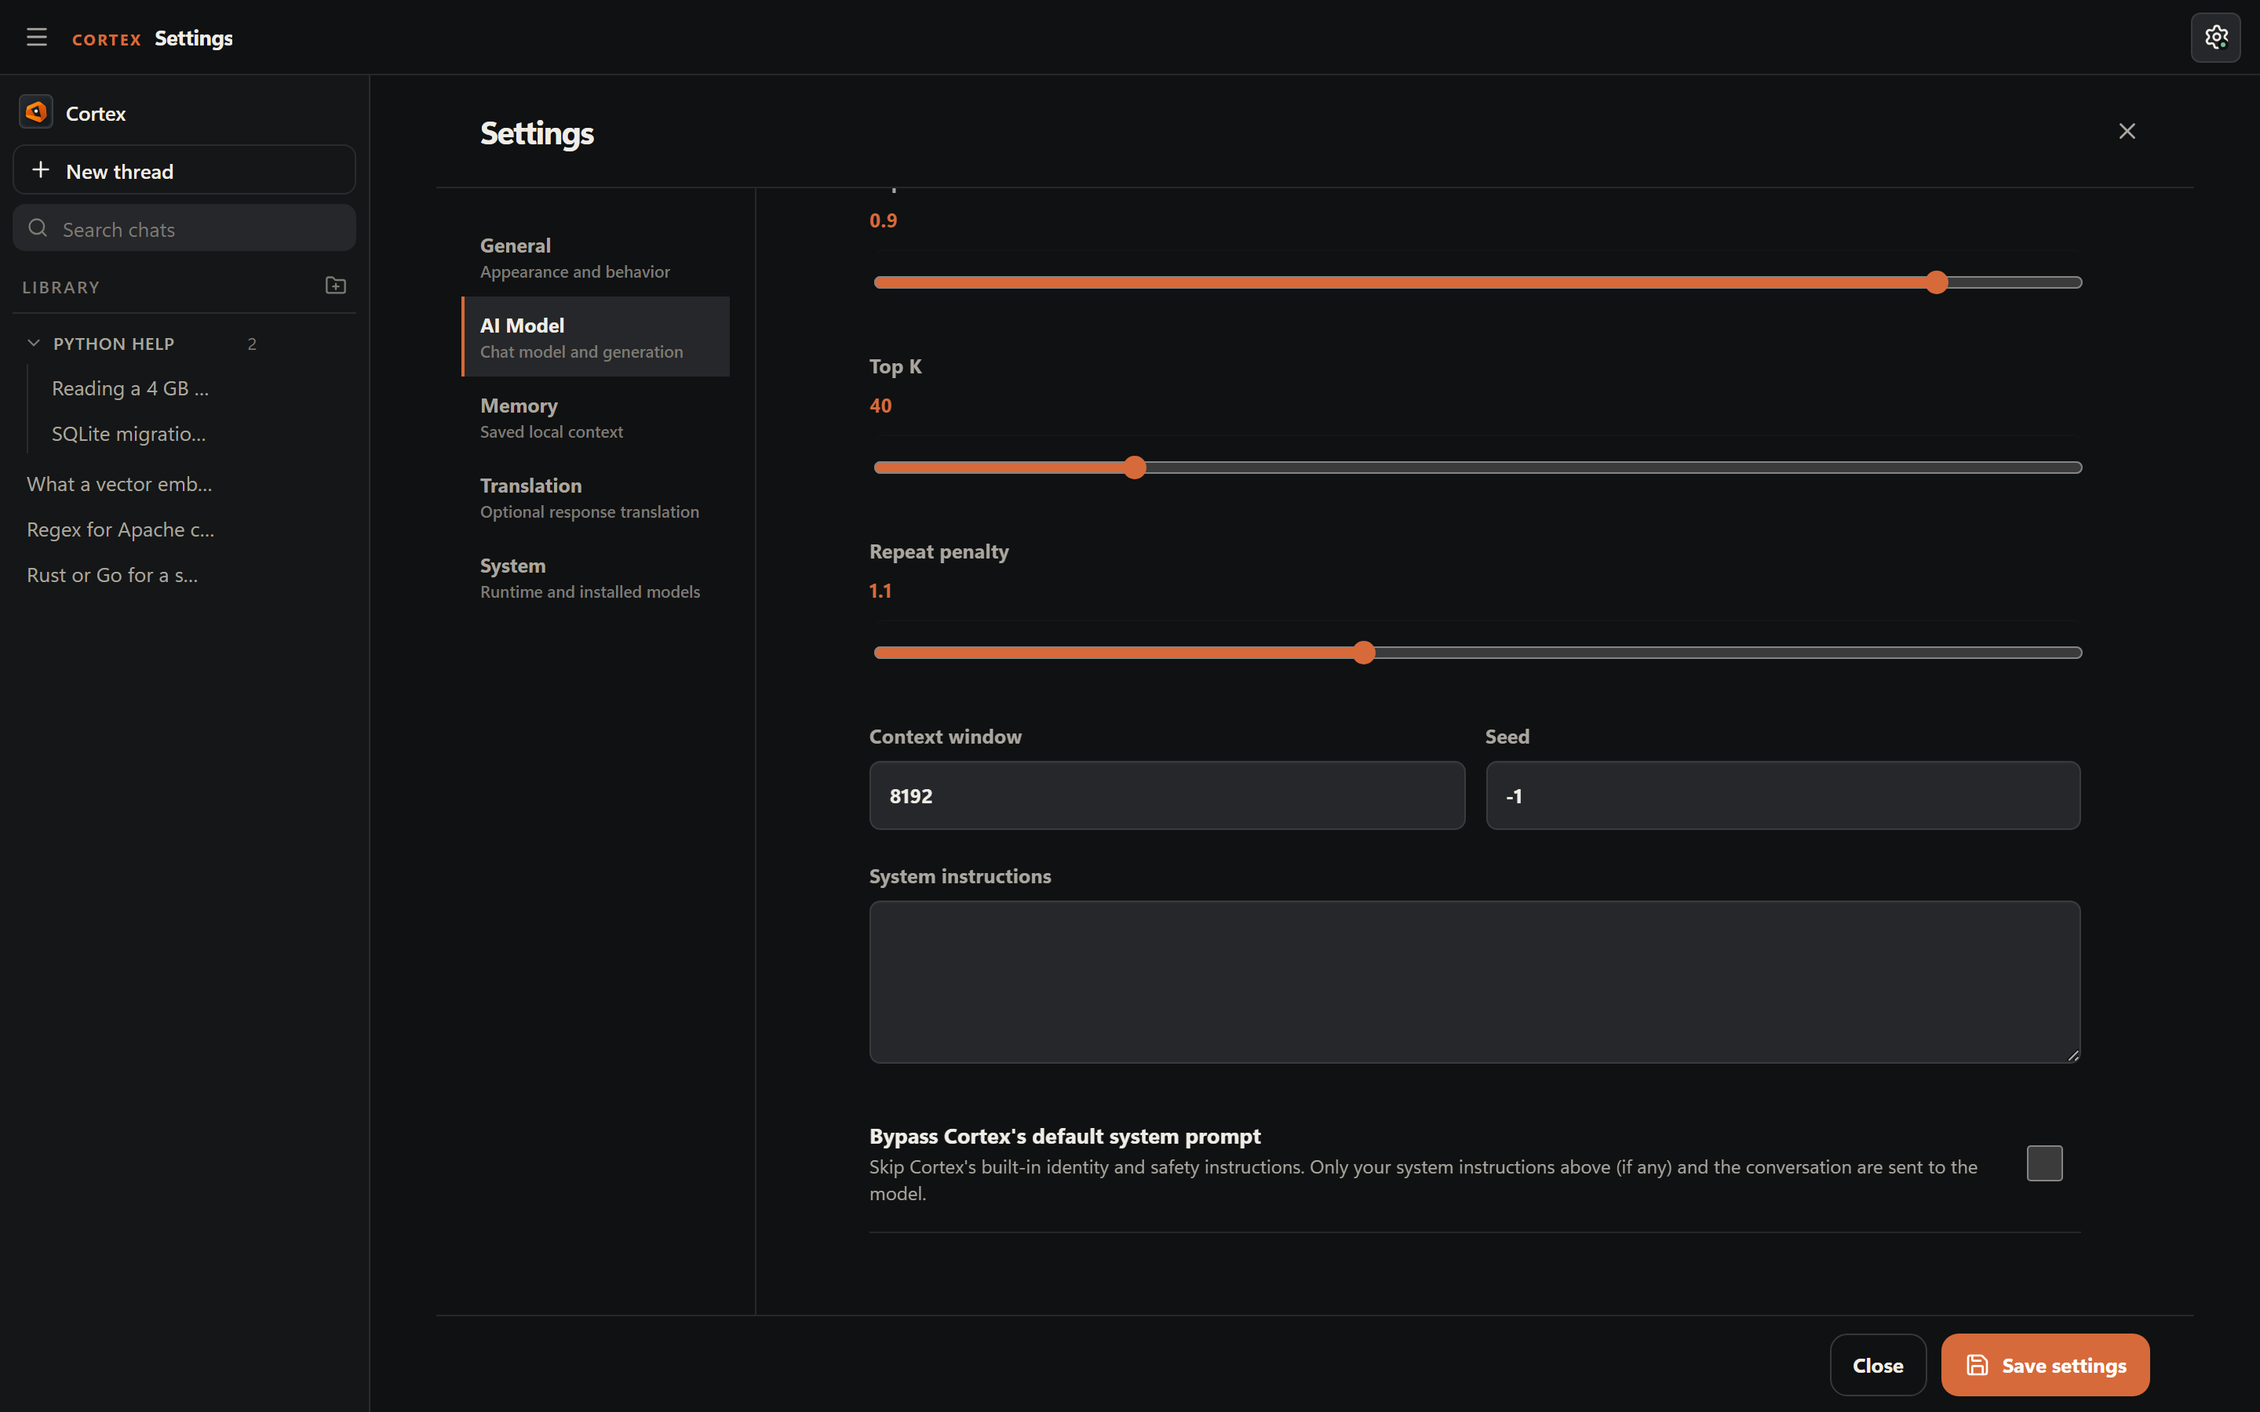
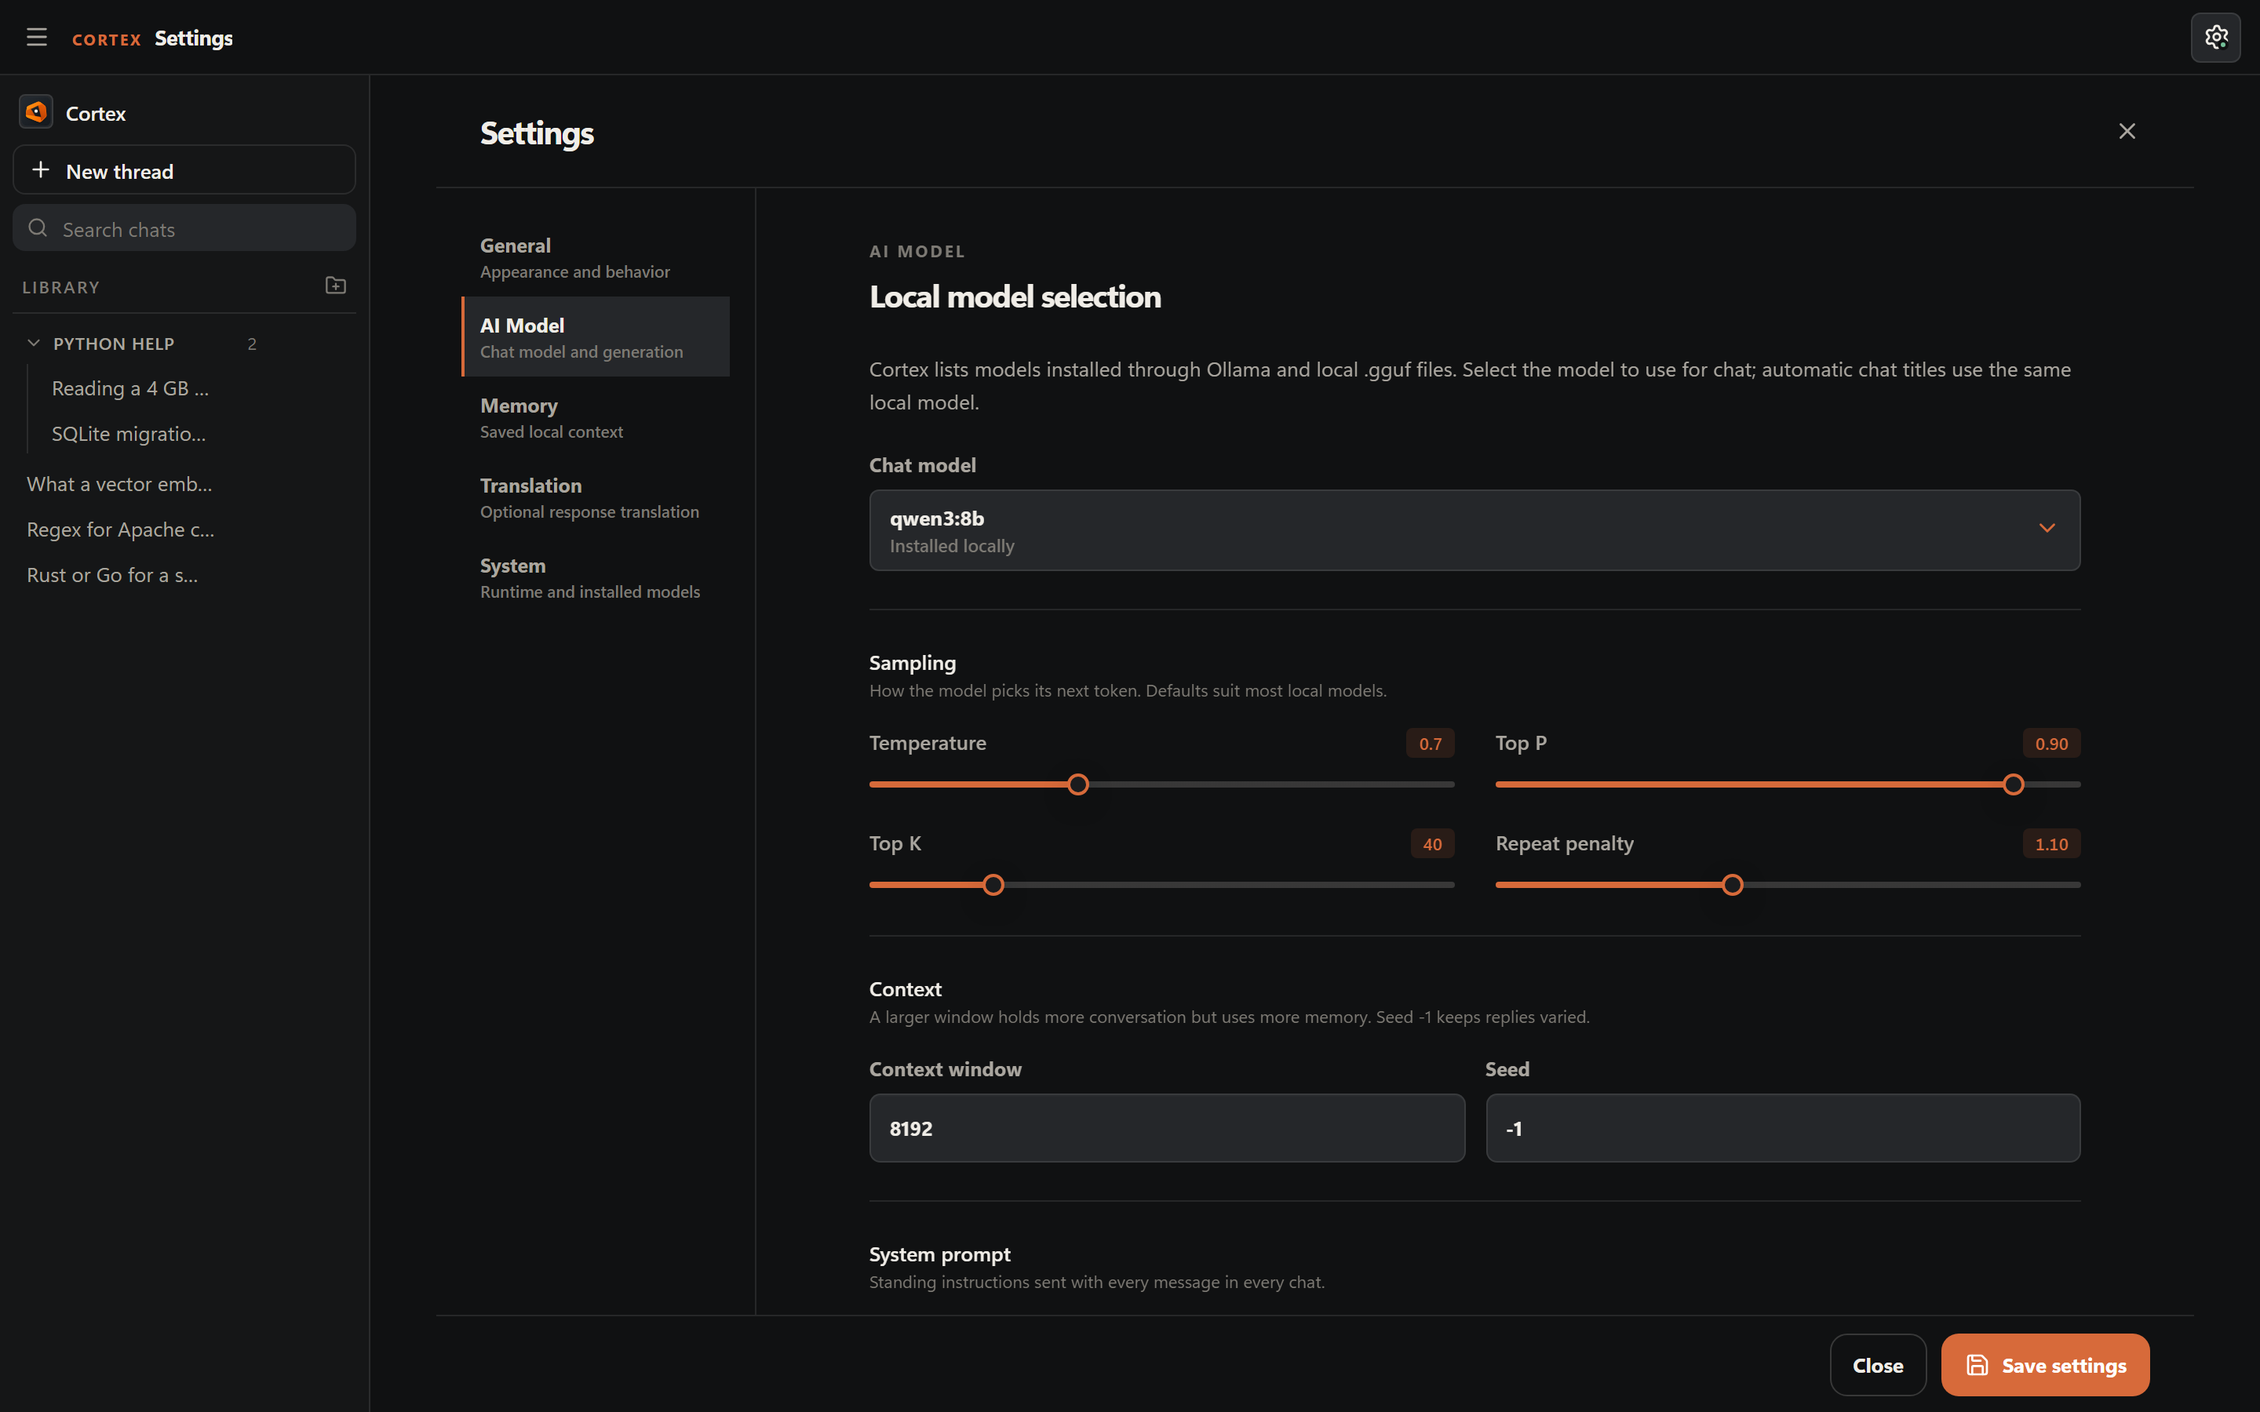
Draw the settings sliders instead of shipping the browser's
The generation controls were `input[type="range"]` with nothing but
`accent-color` on them, so Settings rendered whatever rail the host browser
draws by default -- which in WebView2, the thing Cortex actually ships in, is
the stock grey Chromium control. Each one also spanned the full pane, giving a
0-2 range about a thousand pixels of travel, and the current value floated above
the track via `float: right`.

Adds a RangeField control with a real track and thumb. The filled portion comes
from a `--range-fill` percentage published by the component, because only
Firefox paints that natively (`::-moz-range-progress`) and WebKit has no
equivalent -- doing it in CSS alone would have looked right in one engine and
wrong in the one we ship.

The four sampling controls now sit in two columns rather than one long stack,
the value reads as a chip on the label's baseline instead of a floated span, and
the section is grouped into Sampling / Context / System prompt with a line and a
sentence of explanation each. The whole panel now fits one screen where it
previously needed scrolling.

The toggles were `<input type="checkbox">` at 42x23, which renders as a
stretched checkbox, not a switch. They are painted as switches now and stay
checkboxes underneath, so role, keyboard behaviour, and label association are
unchanged -- the existing tests query them by role and still pass untouched.

Verified in both themes: the light palette was checked separately, since the
[…]

diff --git a/frontend/src/styles/tokens.css b/frontend/src/styles/tokens.css
@@ -663,11 +663,122 @@ a { color: inherit; text-decoration: none; }
 .translation-install-status > strong { margin-left: auto; font-variant-numeric: tabular-nums; }
 .field-value { float: right; color: var(--accent); }
 input[type="range"] { width: 100%; accent-color: var(--accent); }
+
+/* Sliders -------------------------------------------------------------------
+   The default range control is styled per browser and reads as an unfinished
+   form rather than part of this interface, so the track and thumb are drawn
+   here instead. The filled portion comes from --range-fill, published by
+   RangeField, because WebKit has no ::-moz-range-progress equivalent. */
+.range-field { display: grid; min-width: 0; gap: 9px; }
+.range-field-head { display: flex; align-items: baseline; justify-content: space-between; gap: 10px; min-width: 0; }
+.range-field-head label { min-width: 0; overflow: hidden; color: var(--text-muted); font-size: var(--text-sm); font-weight: var(--weight-semi); text-overflow: ellipsis; white-space: nowrap; cursor: pointer; }
+.range-field-value {
+  flex: 0 0 auto;
+  padding: 2px 8px;
+  border-radius: var(--radius-xs);
+  background: var(--accent-soft);
+  color: var(--accent);
+  font-size: var(--text-2xs);
+  font-variant-numeric: tabular-nums;
+  font-weight: var(--weight-semi);
+}
+.range-field-hint { color: var(--text-faint); font-size: var(--text-2xs); line-height: 1.45; }
+
+.range-input {
+  --range-fill: 50%;
+  width: 100%;
+  height: 16px;
+  margin: 0;
+  padding: 0;
+  appearance: none;
+  -webkit-appearance: none;
+  background: transparent;
+  cursor: pointer;
+}
+.range-input::-webkit-slider-runnable-track {
+  height: 4px;
+  border-radius: 999px;
+  background: linear-gradient(
+    to right,
+    var(--accent) 0 var(--range-fill),
+    var(--line-strong) var(--range-fill) 100%
+  );
+}
+.range-input::-webkit-slider-thumb {
+  width: 14px;
+  height: 14px;
+  margin-top: -5px;
+  appearance: none;
+  -webkit-appearance: none;
+  border: 2px solid var(--accent);
+  border-radius: 50%;
+  background: var(--surface);
+  box-shadow: var(--shadow-sm);
+  transition: transform 130ms ease, box-shadow 130ms ease;
+}
+.range-input::-moz-range-track { height: 4px; border-radius: 999px; background: var(--line-strong); }
+.range-input::-moz-range-progress { height: 4px; border-radius: 999px; background: var(--accent); }
+.range-input::-moz-range-thumb {
+  width: 14px;
+  height: 14px;
+  border: 2px solid var(--accent);
+  border-radius: 50%;
+  background: var(--surface);
+  box-shadow: var(--shadow-sm);
+  transition: transform 130ms ease, box-shadow 130ms ease;
+}
+.range-input:hover::-webkit-slider-thumb { transform: scale(1.14); }
+.range-input:hover::-moz-range-thumb { transform: scale(1.14); }
+.range-input:focus-visible { outline: 0; }
+.range-input:focus-visible::-webkit-slider-thumb { box-shadow: 0 0 0 4px var(--accent-soft); }
+.range-input:focus-visible::-moz-range-thumb { box-shadow: 0 0 0 4px var(--accent-soft); }
+
+/* Two columns keeps a 0-2 range from being stretched across the whole pane,
+   where a pixel of travel stops meaning anything. */
+.settings-range-grid { display: grid; grid-template-columns: repeat(2, minmax(0, 1fr)); gap: 20px 26px; }
+.settings-subhead { display: grid; gap: 2px; margin: 4px 0 -4px; }
+.settings-subhead strong { color: var(--text); font-size: var(--text-sm); font-weight: var(--weight-semi); }
+.settings-subhead small { color: var(--text-faint); font-size: var(--text-2xs); line-height: 1.45; }
+.settings-divider { height: 1px; margin: 4px 0 0; border: 0; background: var(--line); }
+
 .toggle-row { display: flex; align-items: center; justify-content: space-between; gap: 18px; padding: 16px 0; border-bottom: 1px solid var(--line); }
 .toggle-row span { display: grid; gap: 3px; }
 .toggle-row strong { color: var(--text); font-size: 0.85rem; }
 .toggle-row small { color: var(--text-muted); font-size: 0.75rem; line-height: 1.45; }
-.toggle-row input { width: 42px; height: 23px; accent-color: var(--accent); }
+
+/* A real switch. This stays an <input type="checkbox"> -- the look is painted
+   on, so the control keeps its native role, keyboard behaviour, and label
+   association rather than being rebuilt out of divs. */
+.toggle-row input[type="checkbox"] {
+  position: relative;
+  flex: 0 0 auto;
+  width: 40px;
+  height: 22px;
+  margin: 0;
+  appearance: none;
+  -webkit-appearance: none;
+  border: 1px solid var(--line-strong);
+  border-radius: 999px;
+  background: var(--surface-soft);
+  cursor: pointer;
+  transition: background 160ms ease, border-color 160ms ease;
+}
+.toggle-row input[type="checkbox"]::after {
+  content: "";
+  position: absolute;
+  top: 50%;
+  left: 2px;
+  width: 16px;
+  height: 16px;
+  border-radius: 50%;
+  background: var(--text-faint);
+  transform: translateY(-50%);
+  transition: transform 180ms cubic-bezier(0.3, 0.7, 0.4, 1), background 160ms ease;
+}
+.toggle-row input[type="checkbox"]:checked { border-color: var(--accent); background: var(--accent); }
+.toggle-row input[type="checkbox"]:checked::after { background: var(--surface); transform: translateY(-50%) translateX(18px); }
+.toggle-row input[type="checkbox"]:focus-visible { outline: 0; box-shadow: 0 0 0 4px var(--accent-soft); }
+.toggle-row input[type="checkbox"]:disabled { cursor: not-allowed; opacity: 0.5; }
 .inline-form { display: flex; gap: 8px; margin-bottom: 17px; }
 .inline-form input { flex: 1; }
 .memory-list { display: grid; gap: 8px; padding: 0; margin: 0 0 20px; list-style: none; }
@@ -821,6 +932,7 @@ kbd { display: inline-block; border: 1px solid var(--line-strong); border-radius
   .settings-tab small { display: none; }
   .settings-pane { flex: 1 1 auto; padding: 24px 16px; }
   .settings-field-row { grid-template-columns: 1fr; }
+  .settings-range-grid { grid-template-columns: 1fr; gap: 18px; }
   .settings-dialog-footer { padding: 0 12px; }
   .panel { padding: 0; }
   .panel-heading { flex-direction: column; }

diff --git a/frontend/src/features/settings/SettingsPanel.tsx b/frontend/src/features/settings/SettingsPanel.tsx
@@ -7,6 +7,7 @@ import type {
   ModelResponse,
 } from "../../../../contracts/cortex-api";
 import { displayModelName, isGGUFModel, localModelNames } from "../../lib/localModels";
+import { RangeField } from "../../shared/ui/RangeField";
 import { Select } from "../../shared/ui/Select";
 import { MemoryPanel } from "./MemoryPanel";
 import { ModelsPanel } from "../models/ModelsPanel";
@@ -184,18 +185,23 @@ export function SettingsPanel({
                     <button className="button button-secondary" type="button" onClick={() => void onCheckModels()} disabled={modelBusy}>Rescan local models</button>
                   </div>
                 )}
-                <label className="field-label" htmlFor="temperature">Temperature <span className="field-value">{generation.temperature ?? 0.7}</span>
-                  <input id="temperature" type="range" min="0" max="2" step="0.1" value={generation.temperature ?? 0.7} onChange={(event) => update({ generation: { ...generation, temperature: Number(event.target.value) } })} />
-                </label>
-                <label className="field-label" htmlFor="top-p">Top P <span className="field-value">{generation.top_p ?? 0.9}</span>
-                  <input id="top-p" type="range" min="0" max="1" step="0.05" value={generation.top_p ?? 0.9} onChange={(event) => update({ generation: { ...generation, top_p: Number(event.target.value) } })} />
-                </label>
-                <label className="field-label" htmlFor="top-k">Top K <span className="field-value">{generation.top_k ?? 40}</span>
-                  <input id="top-k" type="range" min="0" max="200" step="1" value={generation.top_k ?? 40} onChange={(event) => update({ generation: { ...generation, top_k: Number(event.target.value) } })} />
-                </label>
-                <label className="field-label" htmlFor="repeat-penalty">Repeat penalty <span className="field-value">{generation.repeat_penalty ?? 1.1}</span>
-                  <input id="repeat-penalty" type="range" min="0.5" max="2" step="0.05" value={generation.repeat_penalty ?? 1.1} onChange={(event) => update({ generation: { ...generation, repeat_penalty: Number(event.target.value) } })} />
-                </label>
+                <hr className="settings-divider" />
+                <div className="settings-subhead">
+                  <strong>Sampling</strong>
+                  <small>How the model picks its next token. Defaults suit most local models.</small>
+                </div>
+                <div className="settings-range-grid">
+                  <RangeField id="temperature" label="Temperature" min={0} max={2} step={0.1} value={generation.temperature ?? 0.7} format={(value) => value.toFixed(1)} onChange={(temperature) => update({ generation: { ...generation, temperature } })} />
+                  <RangeField id="top-p" label="Top P" min={0} max={1} step={0.05} value={generation.top_p ?? 0.9} format={(value) => value.toFixed(2)} onChange={(top_p) => update({ generation: { ...generation, top_p } })} />
+                  <RangeField id="top-k" label="Top K" min={0} max={200} step={1} value={generation.top_k ?? 40} onChange={(top_k) => update({ generation: { ...generation, top_k } })} />
+                  <RangeField id="repeat-penalty" label="Repeat penalty" min={0.5} max={2} step={0.05} value={generation.repeat_penalty ?? 1.1} format={(value) => value.toFixed(2)} onChange={(repeat_penalty) => update({ generation: { ...generation, repeat_penalty } })} />
+                </div>
+
+                <hr className="settings-divider" />
+                <div className="settings-subhead">
+                  <strong>Context</strong>
+                  <small>A larger window holds more conversation but uses more memory. Seed -1 keeps replies varied.</small>
+                </div>
                 <div className="settings-field-row">
                   <label className="field-label" htmlFor="num-ctx">Context window
                     <input id="num-ctx" type="number" min="2048" max="16384" step="1024" value={generation.num_ctx ?? 4096} onChange={(event) => update({ generation: { ...generation, num_ctx: Number(event.target.value) } })} />
@@ -203,6 +209,12 @@ export function SettingsPanel({
                   <label className="field-label" htmlFor="seed">Seed
                     <input id="seed" type="number" min="-1" max="2147483647" value={generation.seed ?? -1} onChange={(event) => update({ generation: { ...generation, seed: Number(event.target.value) } })} />
                   </label>
+                </div>
+
+                <hr className="settings-divider" />
+                <div className="settings-subhead">
+                  <strong>System prompt</strong>
+                  <small>Standing instructions sent with every message in every chat.</small>
                 </div>
                 <label className="field-label" htmlFor="system-instructions">System instructions
                   <textarea id="system-instructions" value={generation.system_instructions ?? ""} onChange={(event) => update({ generation: { ...generation, system_instructions: event.target.value } })} rows={4} />

diff --git a/frontend/src/shared/ui/RangeField.tsx b/frontend/src/shared/ui/RangeField.tsx
@@ -1,0 +1,52 @@
+import type { CSSProperties } from "react";
+
+type Props = {
+  id: string;
+  label: string;
+  value: number;
+  min: number;
+  max: number;
+  step: number;
+  onChange: (value: number) => void;
+  /** Short explanation shown under the track. */
+  hint?: string;
+  /** Override the printed value, e.g. to add a unit or fix decimals. */
+  format?: (value: number) => string;
+};
+
+/**
+ * A labelled slider with a filled track.
+ *
+ * Browsers only paint the filled portion of a range input natively in Firefox
+ * (`::-moz-range-progress`); WebKit has no equivalent. Publishing the position
+ * as a `--range-fill` percentage lets the track be painted with a gradient, so
+ * the control looks the same everywhere instead of falling back to the default
+ * grey rail on Chromium and WebView2 -- which is what Cortex actually ships in.
+ */
+export function RangeField({ id, label, value, min, max, step, onChange, hint, format }: Props) {
+  const span = max - min;
+  const fill = span > 0 ? ((value - min) / span) * 100 : 0;
+
+  return (
+    <div className="range-field">
+      <div className="range-field-head">
+        <label htmlFor={id}>{label}</label>
+        <output htmlFor={id} className="range-field-value">
+          {format ? format(value) : value}
+        </output>
+      </div>
+      <input
+        id={id}
+        className="range-input"
+        type="range"
+        min={min}
+        max={max}
+        step={step}
+        value={value}
+        style={{ "--range-fill": `${Math.min(100, Math.max(0, fill))}%` } as CSSProperties}
+        onChange={(event) => onChange(Number(event.target.value))}
+      />
+      {hint && <small className="range-field-hint">{hint}</small>}
+    </div>
+  );
+}

diff --git a/README.md b/README.md
@@ -24,9 +24,9 @@ second -- with copy, regenerate, and fork controls that appear on hover.
 Settings keep model selection and generation defaults in one place, and the chat
 model doubles as the title model so there is only one choice to make:
 
-![Cortex settings, AI Model section: top-p, top-k, and repeat penalty sliders,
-context window and seed fields, a system instructions box, and a toggle to
-bypass Cortex's default system prompt.](docs/images/settings.png)
+![Cortex settings, AI Model section: the local model picker above grouped
+Sampling and Context controls, with filled-track sliders and their current
+values shown beside each label.](docs/images/settings.png)
 
 `Ctrl`/`Cmd`+`K` opens a command palette that reaches new chat, settings, theme,
 model switching, and recent conversations without leaving the keyboard:
